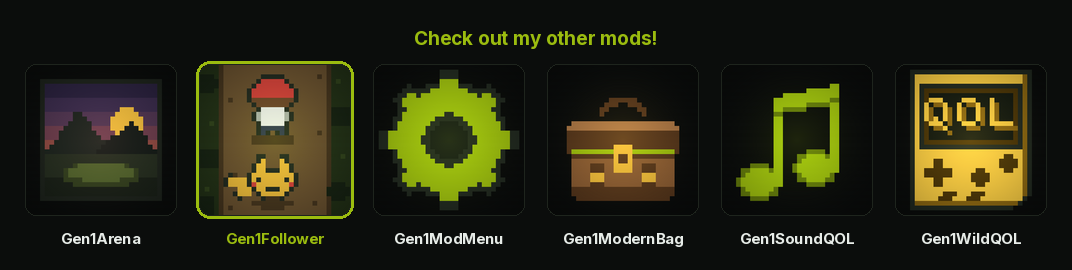
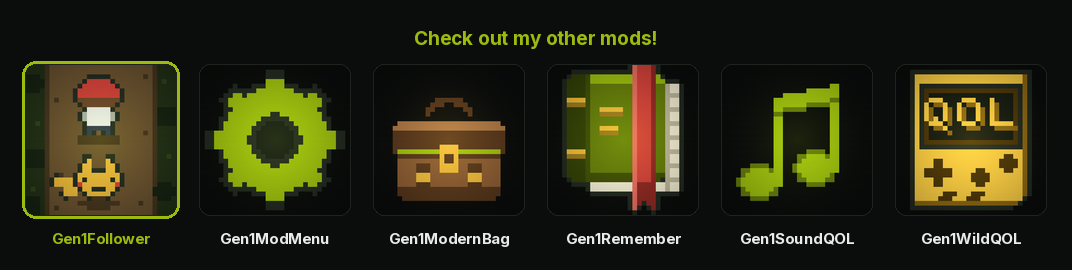
Index: Gen1Remember, and a book with a bookmark for it
A POKéMON can be taught a move it has forgotten -- a REMEMBER row in the popup
you already open on one, listing every level-up move it should have had by the
level it has reached, its pre-evolutions' included.

Listed under a section of its own rather than in the alphabetical run. That
run is headed "Everything in them, separately" and every mod in it is in one
of the two bundles; Gen1Remember is in neither, and filing it there would say
it was.

The icon is a book with a bookmark in it: the move being handed back was never
gone, only closed on. Drawn straight on rather than at the three-quarter angle
a book usually gets, because at 54 pixels -- the size the card actually shows
-- a spine, a cover face and a page block in perspective are four pixels each
and read as stripes. The ribbon sits near the fore edge and breaks the
silhouette top and bottom: a bookmark drawn inside the covers is a stripe on a
book, one that leaves them is a book somebody meant to come back to.

The outline pass it needed -- grow a pixel of INK around whatever was drawn --
is a shared helper rather than a fourth copy, for the icons whose subject has
no straight edges to hang a frame on.

Every other icon redraws byte-identically, which is the generator's own claim
and worth having checked. The lineup banners are regenerated because the
family grew; site/data/index.json is left alone, since the hourly index
workflow rebuilds it with a token this environment does not have and a local
[…]

diff --git a/tools/make_icons.py b/tools/make_icons.py
@@ -1039,6 +1039,107 @@ def wild_ui():
     return bundle_icon("UI", CASE_RED, gap=4)
 
 
+def return_ink(art):
+    """Grow a pixel of INK around everything drawn, and hand the art back.
+
+    For the icons whose subject has no straight edges to hang a frame on: the
+    outline follows whatever the shapes happened to add up to, so a softened
+    corner or a notched ribbon tail is outlined correctly without being
+    restated here.  Read off a snapshot taken before any ink is written, or the
+    outline would grow a second ring into itself as the loop advanced.
+    """
+    edge = [[art.g[y][x] != BG for x in range(GRID)] for y in range(GRID)]
+    for y in range(GRID):
+        for x in range(GRID):
+            if edge[y][x]:
+                continue
+            for dx, dy in ((1, 0), (-1, 0), (0, 1), (0, -1)):
+                nx, ny = x + dx, y + dy
+                if 0 <= nx < GRID and 0 <= ny < GRID and edge[ny][nx]:
+                    art.px(x, y, INK)
+                    break
+    return art
+
+
+def remember():
+    """A book with a bookmark in it: the move this POKeMON is being handed back
+    was never gone, only closed on -- which is what a bookmark is for.
+
+    Drawn straight on rather than at the three-quarter angle a book usually
+    gets in an icon set.  An angled book needs a visible spine, a cover face
+    and a page block in perspective, and at 54 pixels -- the size the card
+    actually shows -- those three shapes are four pixels each and read as
+    stripes.  Face on, the shape is unambiguous at any size: a tall block, a
+    darker spine down one side, page edges down the other.
+
+    Two things the ribbon has to do, and both of them are why it is placed
+    where it is rather than down the middle:
+
+      * it sits near the FORE EDGE, away from the spine, because that is where
+        a bookmark falls and because a stripe down the centre of a cover reads
+        as part of the binding rather than as something laid on top of it.
+      * it BREAKS the silhouette top and bottom.  A bookmark drawn inside the
+        covers is a stripe on a book; one that leaves them is a book somebody
+        stopped reading and meant to come back to, which is the mod.
+
+    The cover carries two short gold bars rather than the inset rule a tome
+    usually gets: a full frame and a ribbon crossing it is two competing
+    rectangles at card size, and the frame is the one that loses nothing by
+    going.
+    """
+    a = Art()
+    cover   = GREEN_D
+    cover_l = GREEN
+    cover_d = (0x3f, 0x4e, 0x08)
+    spine   = (0x33, 0x40, 0x07)
+    gold    = AMBER
+    gold_d  = (0x9a, 0x77, 0x1e)
+    page    = (0xef, 0xea, 0xd2)       # bone, not white: paper next to gold
+    page_d  = (0xbc, 0xb5, 0x9b)
+    ribbon  = RED
+    ribbon_l = (0xe8, 0x6b, 0x60)
+    ribbon_d = (0x8e, 0x28, 0x24)
+
+    # ---- the page block, offset right and down so it shows past the cover
+    a.rect(9, 4, 27, 26, page)
+    a.rect(25, 4, 25, 26, page_d)                  # where the leaves start
+    for y in range(6, 26, 3):                      # and the leaf edges
+        a.rect(26, y, 27, y, page_d)
+
+    # ---- the cover over it, and the spine down the left
+    #
+    # Stopped at row 24 rather than run to the bottom of the grid, which is
+    # what buys the ribbon its six rows of daylight below: a tail that ends
+    # level with the covers is a stripe that stops, and the notch in it lands
+    # on the outline where nothing can be read.
+    a.rect(4, 2, 24, 24, cover)
+    a.rect(4, 2, 24, 3, cover_l)                   # lit from above
+    a.rect(4, 23, 24, 24, cover_d)
+    a.rect(4, 2, 7, 24, spine)                     # the spine
+    a.rect(8, 2, 8, 24, cover_d)                   # its hinge shadow
+    for x in (4, 24):                              # softened corners
+        a.px(x, 2, BG)
+        a.px(x, 24, BG)
+
+    # ---- gold: two bands across the spine, two short bars on the cover
+    for y in (7, 18):
+        a.rect(4, y, 7, y, gold)
+        a.rect(4, y + 1, 7, y + 1, gold_d)
+    for x0, y0, x1 in ((11, 9, 15), (11, 13, 14)):
+        a.rect(x0, y0, x1, y0, gold)
+        a.rect(x0, y0 + 1, x1, y0 + 1, gold_d)
+
+    # ---- the ribbon, over everything, out of the top and past the bottom
+    a.rect(18, 0, 22, 30, ribbon)
+    a.rect(18, 0, 18, 30, ribbon_l)                # a lit edge down one side
+    a.rect(22, 0, 22, 30, ribbon_d)
+    a.rect(19, 25, 21, 30, ribbon_d)               # the hanging tail, in shade
+    a.px(20, 29, BG)                               # notched two rows deep, so
+    a.rect(19, 30, 21, 30, BG)                     # the fork reads at 54px
+    return_ink(a)
+    return a, GREEN
+
+
 ICONS = {
     "gen1autosave": autosave,
     "Gen1BattleUI": battle_ui,
@@ -1052,6 +1153,7 @@ ICONS = {
     "Gen1Dex": dex,
     "gen1_mod_menu": mod_menu,
     "Gen1Party": party,
+    "Gen1Remember": remember,
     "gen151": gen151,
     "gen1_sprint": sprint,
     "gen1_wild_qol": wild_qol,

diff --git a/mods/Wild@Gen1Remember/description.md b/mods/Wild@Gen1Remember/description.md
@@ -1,0 +1,79 @@
+A POKéMON can be taught a move it has forgotten — from the popup you already
+open on it.
+
+Gen 1 has no move reminder. A move that scrolled off the top of the four slots
+on the way up is gone for the rest of the save, and the only thing the cartridge
+ever offers back is a TM you have to own. Your BLASTOISE forgot BUBBLE
+somewhere between Pallet Town and here, and there is no counter anywhere in the
+game that will give it back.
+
+## Where the row is
+
+**REMEMBER** goes in the per-POKéMON popup — the one with STATS and SWITCH on
+it — under the rows the engine put there. In the party menu that needs nothing
+else installed: the engine's own `ui.party.submenu` hook is built for this and
+dispatches a mod's row by calling it, so no screen is replaced and nothing is
+patched.
+
+With [Gen1BillsBox](https://github.com/wild1walker/Gen1BillsBox) **1.2.0 or
+newer** installed, the same row appears in the box, between that screen's own
+verbs and CANCEL — through the extension point that release added to its popup,
+registered at `game.ready` so either install order works.
+
+Not in battle. The submenu there is SWITCH / STATS / CANCEL, and a move learned
+mid-turn is a mechanic rather than a convenience — which is a different mod.
+
+## What it offers back
+
+Every **level-up move** the POKéMON should already have had at the level it has
+reached, minus the four it knows now. Each row names the move and the level it
+comes in at, and the list is ordered by that level.
+
+**The forms it evolved out of count.** A CHARIZARD's learnset is CHARIZARD's;
+the moves it learned as a CHARMANDER are in CHARMANDER's, and a player who
+evolved past EMBER did not stop having forgotten it. So the evolution chain is
+walked backwards and every form's learnset counted, on the same level test.
+
+**TM and HM moves are not offered.** A machine move is not forgotten, it is
+bought: you still have the TM, or you knowingly spent it. Handing those back
+free would quietly rewrite what a TM costs. Level-up moves are the ones the
+game took away without asking.
+
+## Picking one
+
+Under four moves, it goes straight into the free slot with the same
+`LearnedMove1Text` and jingle the bag's TM path uses — one event should sound
+the same however it was started.
+
+On four, the engine's own **MoveLearnMenu** takes over: "Delete an older move to
+make room?", the forget list, the HM refusal, and "1, 2 and... Poof!". Every one
+of those is text you already know, and a mod that redrew them would get one of
+them subtly wrong. It is reached through `Screens.push`, so a mod that has
+*replaced* that screen — a translation, a UI overhaul — is the one that answers
+here too.
+
+## Nothing is written to your save
+
+The list is **derived**, not recorded. Gen 1 keeps no move history — a save
+records the four moves a POKéMON has and not one byte about what it used to
+know — so what it has forgotten cannot be read back and has to be worked out.
+What this offers is exactly the set the level-up path threw away: it keeps the
+most recent four and drops the rest.
+
+Which is the reason to prefer deriving it over recording what got overwritten. A
+POKéMON caught before this mod was installed answers exactly the same as one
+caught after; a save that has never seen the mod loses nothing by adding it, and
+nothing by removing it again; and there is no state to migrate, corrupt, or
+disagree with the save.
+
+The cost is the honest one: a TM move a POKéMON learned and then overwrote is
+not offered back, because nothing records that it ever had it. That is also the
+call this mod would make *with* a record available, for the reason above.
+
+## Settings
+
+`PARTY REMEMBER` and `BOX REMEMBER` turn each surface off. `PRE-EVO MOVES` off
+reads the current form's learnset alone, which is the later-generation move
+reminder's rule, for anyone who wants evolving to be a door that shuts.
+`HIDE WHEN EMPTY` (on) means a POKéMON with nothing to remember carries no row
+at all; off leaves the row everywhere and has it say so instead.

diff --git a/README.md b/README.md
@@ -8,7 +8,7 @@
 </p>
 
 <p align="center">
-  <a href="https://wild1walker.github.io/Gen1Wild/"><img src="site/banners/lineup.png" alt="Gen151, Gen1Arena, Gen1AutoContinue, Gen1AutoSave, Gen1BillsBox, Gen1Dex, Gen1Follower, Gen1MenuManager, Gen1ModMenu, Gen1ModernBag, Gen1Party, Gen1SoundQOL and Gen1Sprint" width="920"></a>
+  <a href="https://wild1walker.github.io/Gen1Wild/"><img src="site/banners/lineup.png" alt="Gen151, Gen1Arena, Gen1AutoContinue, Gen1AutoSave, Gen1BattleUI, Gen1BillsBox, Gen1Dex, Gen1Follower, Gen1MenuManager, Gen1ModMenu, Gen1ModernBag, Gen1Party, Gen1Remember, Gen1SoundQOL and Gen1Sprint" width="920"></a>
 </p>
 
 ## What is in the index
@@ -43,6 +43,15 @@ not twice, and a mod in one can still find a mod in the other.
 | <img src="mods/Wild@Gen1Party/thumbnail.png" width="54" alt=""> | **[Gen1Party](https://github.com/wild1walker/Gen1Party)** | The party menu with every POKéMON in its own species colours instead of all six sharing one, and the status and HP numbers pulled in off the screen edge. |
 | <img src="mods/Wild@gen1_sound_qol/thumbnail.png" width="54" alt=""> | **[Gen1SoundQOL](https://github.com/wild1walker/Gen1SoundQOL)** | The low-HP battle siren beeps once instead of looping forever, and on mobile the game mutes itself when another app takes the audio. |
 | <img src="mods/Wild@gen1_sprint/thumbnail.png" width="54" alt=""> | **[Gen1Sprint](https://github.com/wild1walker/Gen1Sprint)** | Hold B to run at FireRed's running-shoes speed, and a BICYCLE that stays worth riding at twice the speed Gen 1 gives it. |
+
+### On its own
+
+Not in either bundle — a mod the suite does not carry, listed here because the
+index is where I put the mods I maintain.
+
+| | Mod | What it does |
+|---|---|---|
+| <img src="mods/Wild@Gen1Remember/thumbnail.png" width="54" alt=""> | **[Gen1Remember](https://github.com/wild1walker/Gen1Remember)** | A POKéMON can be taught a move it has forgotten. A REMEMBER row in the popup you already open on it — the party menu's, and Gen1BillsBox's box — listing every level-up move it should have had by the level it has reached, its pre-evolutions' included. |
 
 Every icon above is the one the card carries in **FIND MODS**, drawn by
 [`tools/make_icons.py`](tools/make_icons.py). No mod is vendored here: each
